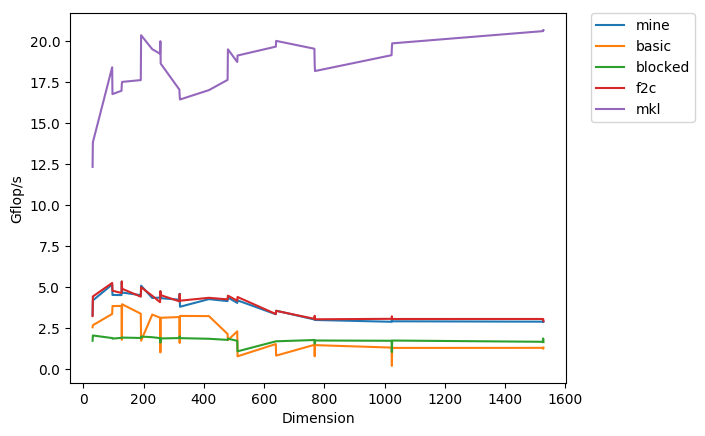
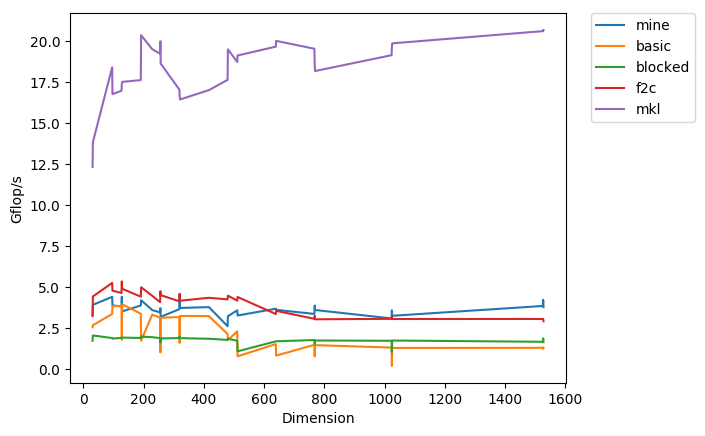
blocking from blocked file

Changed region(s): [[0.1248, 0.656, 0.7801, 0.7454]]

diff --git a/dgemm_mine.c b/dgemm_mine.c
@@ -1,12 +1,50 @@
-const char* dgemm_desc = "My awesome dgemm.";
+const char *dgemm_desc = "My awesome dgemm.";
+
+#ifndef BLOCK_SIZE_MINE
+#define BLOCK_SIZE_MINE ((int)64)
+#endif
+
+void basic_dgemm(const int lda, const int M, const int N, const int K,
+                 const double *A, const double *B, double *C)
+{
+    int i, j, k;
+    for (j = 0; j < N; ++j)
+    {
+        for (k = 0; k < K; ++k)
+        {
+            for (i = 0; i < M; ++i)
+            {
+                C[j * lda + i] += A[k * lda + i] * B[j * lda + k];
+            }
+        }
+    }
+}
+
+void do_block(const int lda,
+              const double *A, const double *B, double *C,
+              const int i, const int j, const int k)
+{
+    const int M = (i + BLOCK_SIZE_MINE > lda ? lda - i : BLOCK_SIZE_MINE);
+    const int N = (j + BLOCK_SIZE_MINE > lda ? lda - j : BLOCK_SIZE_MINE);
+    const int K = (k + BLOCK_SIZE_MINE > lda ? lda - k : BLOCK_SIZE_MINE);
+    basic_dgemm(lda, M, N, K,
+                A + i + k * lda, B + k + j * lda, C + i + j * lda);
+}
 
 void square_dgemm(const int M, const double *A, const double *B, double *C)
 {
-    int i, j, k;
-    for (j = 0; j < M; ++j) {
-        for (k = 0; k < M; ++k) {
-            for (i = 0; i < M; ++i) {
-                C[j*M+i] += A[k*M+i] * B[j*M+k];
+    const int n_blocks = M / BLOCK_SIZE_MINE + (M % BLOCK_SIZE_MINE ? 1 : 0);
+    int bi, bj, bk;
+    for (bj = 0; bj < n_blocks; ++bj)
+    {
+        const int j = bj * BLOCK_SIZE_MINE;
+        for (bk = 0; bk < n_blocks; ++bk)
+        {
+            const int k = bk * BLOCK_SIZE_MINE;
+            for (bi = 0; bi < n_blocks; ++bi)
+            {
+                const int i = bi * BLOCK_SIZE_MINE;
+                do_block(M, A, B, C, i, j, k);
             }
         }
     }
